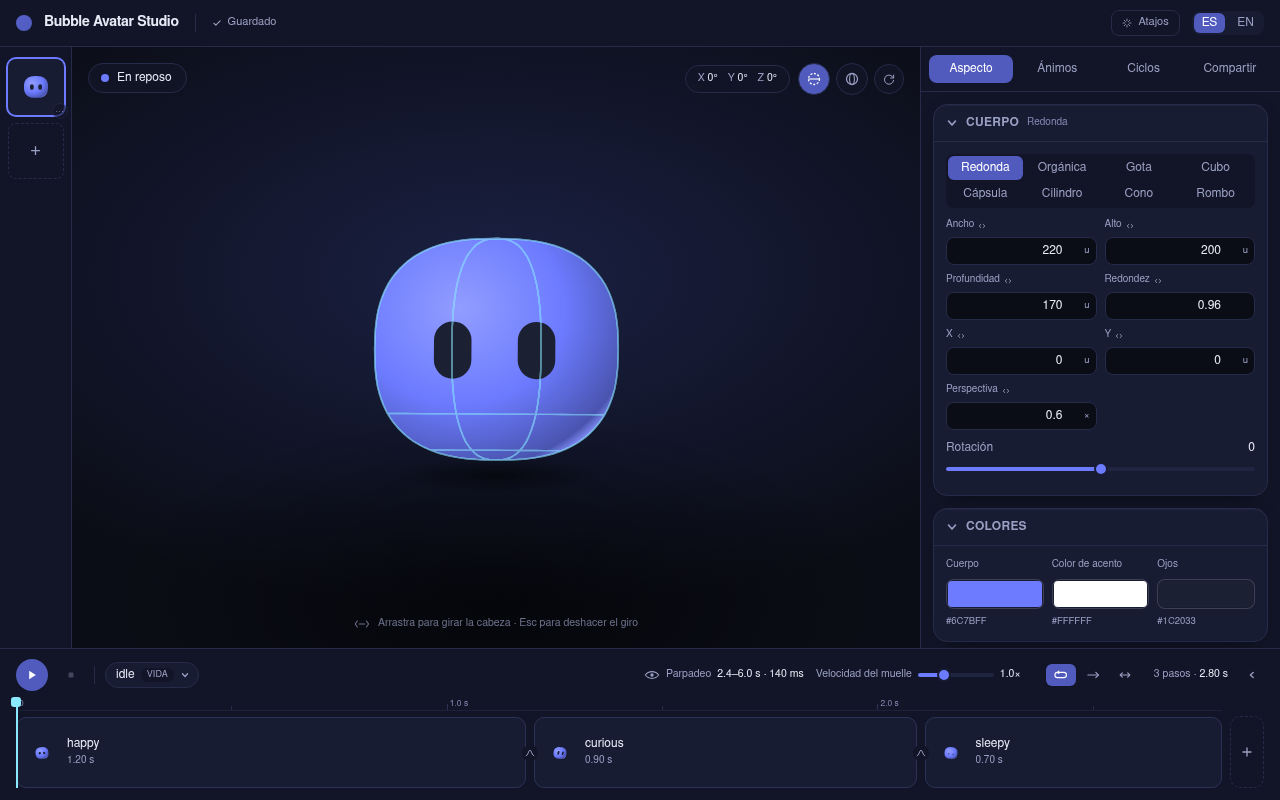
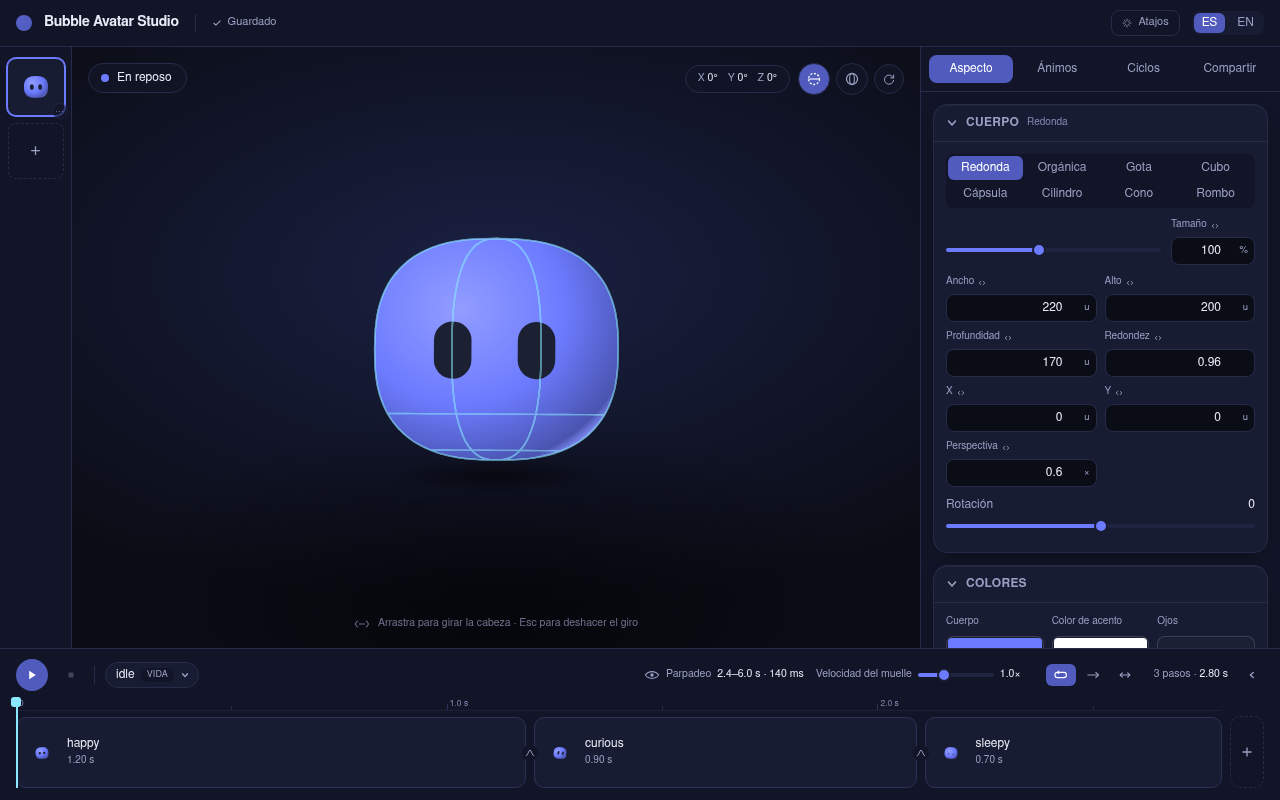
Give the body one size to be set by (FR-2.2)
Width, height and depth are each editable on their own, which is what a shape
needs and what a size is not: making the same character bigger meant retyping
three numbers in proportion, and getting the proportion wrong meant a different
character rather than a bigger one.

The Surface card opens with a size row now — a slider for finding a size
against the stage, a field beside it for stating one, 25–200%. Both commit a
single `surface/patch` carrying all three dimensions, so they can never land a
frame apart, and the field keeps the drag-to-scrub every numeric field has
(FR-9.5).

Three decisions worth keeping. The percentage is of `DEFAULT_BODY_WIDTH`, now
exported from create.ts rather than left as a literal in the template, because
a percentage needs a stated 100% and two copies of it would drift. The value is
derived from the dimensions rather than stored beside them — they are the
truth, and a stored scale is a second truth that can disagree, which is also
why this needs no schema bump. And depth scales with the other two: the surface
is a solid (FR-2.8), so a body that grew in width and height alone would
flatten as it grew.

Verified in a browser as well as in jsdom: 160% takes 220/200/170 to
352/320/272 and the drawn body from 243px wide to 391px.

diff --git a/src/app/studio/panels/look/SurfaceSection.tsx b/src/app/studio/panels/look/SurfaceSection.tsx
@@ -1,7 +1,8 @@
 // Primary surface: shape family, size, position and orientation
 // (FR-2.1, FR-2.2, FR-2.6, FR-2.7).
 import { NumberField, Slider, type SectionProps } from "./fields";
-import { Card, Segmented } from "../../ui";
+import { Card, RangeInput, Segmented } from "../../ui";
+import { DEFAULT_BODY_WIDTH } from "../../../../domain/document/create";
 import { SHAPE_FAMILIES } from "../../../../domain/geometry/shapes";
 import type { ShapeFamily } from "../../../../domain/document/types";
 import type { MessageKey } from "../../../i18n";
@@ -23,6 +24,27 @@ const SHAPE_LABELS: Record<ShapeFamily, MessageKey> = {
 
 export function SurfaceSection({ bubble, dispatch, t }: SectionProps) {
   const surface = bubble.body.surface;
+  /**
+   * One knob for the whole body, stated as a percentage of the width a new
+   * bubble starts at. Derived rather than stored: the three dimensions are the
+   * truth, and a stored scale beside them is a second truth that can disagree.
+   *
+   * Depth scales with the other two. A body that grew in width and height
+   * alone would flatten as it grew, which is a different character rather than
+   * a bigger one — the surface is a solid (FR-2.8), not an outline.
+   */
+  const sizePct = Math.round((surface.width / DEFAULT_BODY_WIDTH) * 100);
+  const setSize = (pct: number): void => {
+    const factor = (pct / 100) * (DEFAULT_BODY_WIDTH / surface.width);
+    dispatch({
+      type: "surface/patch",
+      patch: {
+        width: Math.round(surface.width * factor),
+        height: Math.round(surface.height * factor),
+        depth: Math.round(surface.depth * factor),
+      },
+    });
+  };
   return (
     // The family is the one thing about this card worth reading while it is
     // shut, so it rides in the header (docs/05 §2).
@@ -73,6 +95,38 @@ export function SurfaceSection({ bubble, dispatch, t }: SectionProps) {
           />
         </div>
       )}
+      {/* The size sits above the three it drives, because it is the thing most
+          often reached for and the fields below are what it is made of. The
+          slider is for finding a size by looking at the stage; the field
+          beside it is for stating one. Both commit a single patch, so the
+          three dimensions can never land a frame apart. */}
+      <div className="flex items-end gap-2.5">
+        {/* The slider carries no visible label of its own: the field beside it
+            names the pair, and a second "Tamaño" over a second copy of the
+            number reads as two controls rather than two ways into one. */}
+        <span className="flex min-w-0 flex-1 pb-1.5">
+          <RangeInput
+            label={t("look.sizeSlider")}
+            value={sizePct}
+            min={25}
+            max={200}
+            step={1}
+            onChange={setSize}
+            className="min-w-0 flex-1"
+          />
+        </span>
+        <span className="w-21 shrink-0">
+          <NumberField
+            label={t("look.size")}
+            value={sizePct}
+            min={25}
+            max={200}
+            unit="%"
+            onChange={setSize}
+          />
+        </span>
+      </div>
+
       {/* Two to a row: a 360px column fits them, and a stack of eight
           single-file fields is a scroll tunnel. */}
       <div className="grid grid-cols-2 gap-2">

diff --git a/src/app/studio/panels/LookPanel.test.tsx b/src/app/studio/panels/LookPanel.test.tsx
@@ -72,6 +72,70 @@ describe("Look panel · surface (FR-2.2)", () => {
   });
 });
 
+describe("Look panel · size (FR-2.2)", () => {
+  /**
+   * One knob for the whole body. Width, height and depth are each editable on
+   * their own, which is what a shape needs and what a *size* does not: the
+   * three had to be retyped in proportion to make the same character bigger.
+   */
+  it("reads the current size as a percentage of the default body", () => {
+    const { bubble } = setup();
+    expect(bubble.body.surface.width).toBe(220);
+    expect(screen.getByLabelText(t("look.sizeSlider"))).toHaveProperty(
+      "value",
+      "100",
+    );
+  });
+
+  it("scales width, height and depth by one factor", () => {
+    const { dispatch } = setup();
+    setNumber(t("look.size"), "50");
+    // 220 / 200 / 170 halved, so the character keeps its proportions and its
+    // depth: a body that grew in two dimensions only would flatten as it grew.
+    expect(lastOf(dispatch, "surface/patch")?.patch).toEqual({
+      width: 110,
+      height: 100,
+      depth: 85,
+    });
+  });
+
+  it("scales a body that was never the default size", () => {
+    const bubble = createBubble("Look");
+    bubble.body.surface = {
+      ...bubble.body.surface,
+      width: 300,
+      height: 150,
+      depth: 90,
+    };
+    const { dispatch } = setup(bubble);
+    // 300 of a 220 default reads as 136%; asking for 68% halves all three and
+    // leaves the 2:1 body 2:1.
+    expect(screen.getByLabelText(t("look.sizeSlider"))).toHaveProperty(
+      "value",
+      "136",
+    );
+    fireEvent.change(screen.getByLabelText(t("look.sizeSlider")), {
+      target: { value: "68" },
+    });
+    expect(lastOf(dispatch, "surface/patch")?.patch).toEqual({
+      width: 150,
+      height: 75,
+      depth: 45,
+    });
+  });
+
+  it("commits one patch, so the three never land apart", () => {
+    const { dispatch } = setup();
+    fireEvent.change(screen.getByLabelText(t("look.sizeSlider")), {
+      target: { value: "125" },
+    });
+    const patches = (dispatch.mock.calls as [Action][])
+      .map(([a]) => a)
+      .filter((a) => a.type === "surface/patch");
+    expect(patches).toHaveLength(1);
+  });
+});
+
 describe("Look panel · shape family (FR-2.6, FR-2.7)", () => {
   it("picks a shape family", async () => {
     const { dispatch, user } = setup();

diff --git a/src/app/i18n.ts b/src/app/i18n.ts
@@ -17,6 +17,8 @@ export type MessageKey =
   | "stage.gizmo"
   | "stage.guide"
   | "look.surface"
+  | "look.size"
+  | "look.sizeSlider"
   | "look.width"
   | "look.height"
   | "look.depth"
@@ -234,6 +236,8 @@ const es: Record<MessageKey, string> = {
   "stage.gizmo": "Rotar cabeza",
   "stage.guide": "Guía de proyección",
   "look.surface": "Cuerpo",
+  "look.size": "Tamaño",
+  "look.sizeSlider": "Tamaño (deslizador)",
   "look.width": "Ancho",
   "look.height": "Alto",
   "look.depth": "Profundidad",
@@ -458,6 +462,8 @@ const en: Record<MessageKey, string> = {
   "stage.gizmo": "Rotate head",
   "stage.guide": "Projection guide",
   "look.surface": "Body",
+  "look.size": "Size",
+  "look.sizeSlider": "Size (slider)",
   "look.width": "Width",
   "look.height": "Height",
   "look.depth": "Depth",

diff --git a/src/domain/document/create.ts b/src/domain/document/create.ts
@@ -10,6 +10,13 @@ export const DEFAULT_COLORS = {
   eyes: "#1c2033",
 } as const;
 
+/**
+ * The width a new body starts at. Exported because the Look panel's size
+ * control states a percentage, and a percentage needs a stated 100% — reading
+ * it from here is what stops the label drifting from the template.
+ */
+export const DEFAULT_BODY_WIDTH = 220;
+
 export function createBubble(name: string, id = newId("bbl")): Bubble {
   return {
     id,
@@ -18,7 +25,7 @@ export function createBubble(name: string, id = newId("bbl")): Bubble {
       surface: {
         kind: "blob",
         shape: "round",
-        width: 220,
+        width: DEFAULT_BODY_WIDTH,
         height: 200,
         depth: 170,
         roundness: 0.96,

diff --git a/docs/05-ui-design.md b/docs/05-ui-design.md
@@ -181,8 +181,21 @@ Sections as collapsible cards:
    rows (round / organic / drop / capsule / cylinder / cone / diamond, FR-2.6);
    the organic parameters — lobes, wobble, seed (FR-2.7) — appear only while
    organic is the family, since they do not bite on the others;
+   a **size** row — slider and field, 25–200% — above
    width/height/depth/roundness/perspective numeric steppers (unit suffixes u/×),
-   rotation slider ±180°.
+   and a rotation slider ±180°.
+
+   The size is a percentage of the width a new bubble starts at, derived from
+   the three dimensions rather than stored beside them: they are the truth, and
+   a stored scale is a second truth that can disagree with them. Moving it
+   multiplies all three by one factor in a single patch — depth included,
+   because a body that grew in width and height alone would flatten as it grew,
+   and the surface is a solid (FR-2.8), not an outline. The slider is for
+   finding a size against the stage; the field beside it is for stating one,
+   and it carries the same drag-to-scrub every numeric field does (FR-9.5).
+   The slider has no visible label of its own — the field names the pair, and a
+   second caption over a second copy of the number reads as two controls.
+
 2. **Colors** — body / accent / eyes swatch pickers (preset palette + hex input).
 3. **Extras** — list of primitives with kind icon, up/down z buttons, edit
    expander (same numeric controls, including a depth of its own since each one

diff --git a/docs/07-testing-strategy.md b/docs/07-testing-strategy.md
@@ -71,12 +71,12 @@ transition, a non-integer seed), which one file per code cannot express.
 
 ## 4b. Current state (re-derive; do not trust)
 
-As of the two-defect pass (F8): **36 Vitest files, 646 tests**, plus **1
+As of the two-defect pass (F8): **36 Vitest files, 650 tests**, plus **1
 Playwright spec** of **11 scenarios** — boot, panels, a playing loop and the
 rail menu, joined by the mood editor's focus behaviour, the gizmo, the
 wireframe, the Share preview, drag-to-scrub, drag-to-reorder, and a 1024×720
 check that the track's first row and the inspector do not clip. Production
-bundle 347.14 kB JS / 37.87 kB CSS (103.93 / 7.49 gzipped).
+bundle 347.81 kB JS / 37.96 kB CSS (104.13 / 7.51 gzipped).
 
 Two of those scenarios exist because jsdom cannot decide them. The playing
 loop asserts the **playhead has moved**: jsdom can prove the writer runs, not

diff --git a/README.md b/README.md
@@ -31,8 +31,8 @@ between runs.
 **v0.2.0, plus F8.** Every roadmap phase is closed — the track redesign, the
 mood pose and a two-defect pass over the v0.1.0 that closed F5. See
 `docs/08-roadmap.md` for the phases and `docs/02-functional-spec.md` for the
-requirements each one closes. Current gate: **646 tests across 36 files**, plus
-a Playwright smoke of 11 scenarios, on a 347.14 kB / 37.87 kB production bundle
+requirements each one closes. Current gate: **650 tests across 36 files**, plus
+a Playwright smoke of 11 scenarios, on a 347.81 kB / 37.96 kB production bundle
 — re-derive with `pnpm test` and `pnpm build` rather than trusting this line.
 
 Landed so far: the pure domain, render, export and runtime layers; a studio
